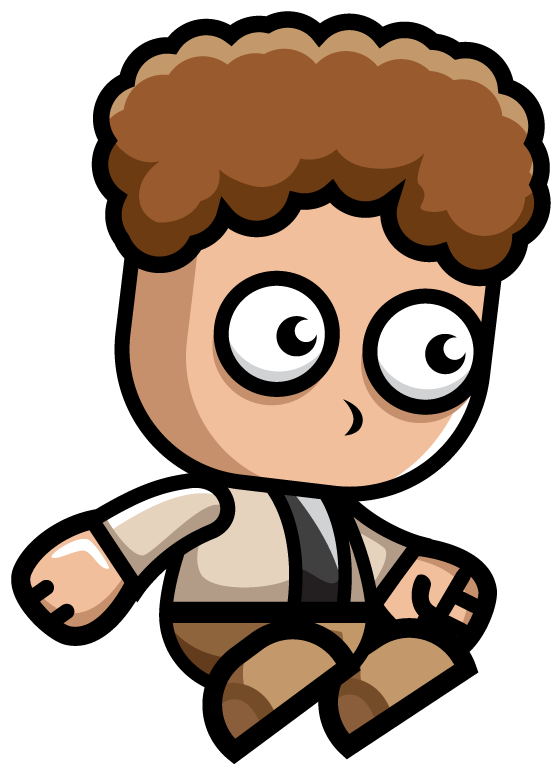
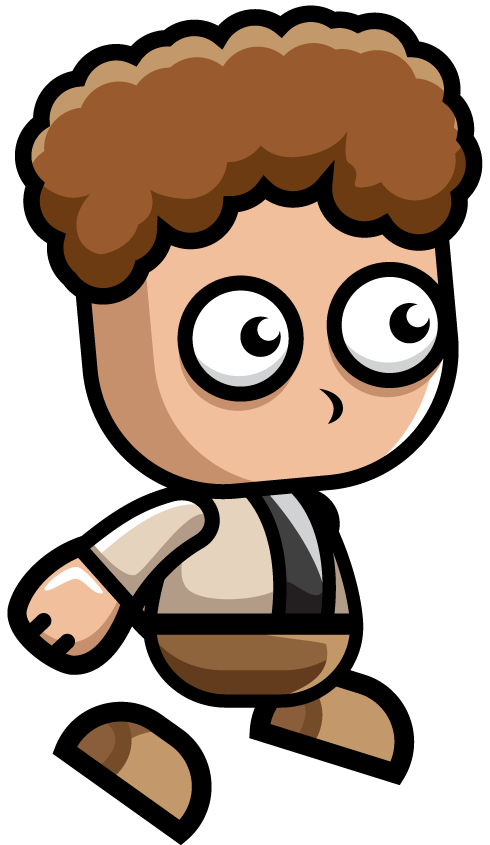
Correcting player moviment animation.

diff --git a/TecprogRunner/TecprogRunner/Player.m b/TecprogRunner/TecprogRunner/Player.m
@@ -11,6 +11,12 @@
 
 #define JUMP_IMPULSE 500
 
+typedef enum playerMoviments{
+    PlayerMovimentRun,
+    PlayerMovimentJump,
+    PlayerMovimentFall
+}playerMoviments;
+
 @interface Player()
 @end
 
@@ -100,56 +106,47 @@
     // Using textures to make an action
     SKAction *run = [SKAction animateWithTextures:runTextures timePerFrame:0.1];
     
-    return run;
+    SKAction *runForever = [SKAction repeatActionForever:run];
+    
+    return runForever;
 }
 
 -(SKAction*) loadJumpAnimation{
     DebugLog(@"Loading Jump Animation");
     
     // Creating a Mutable Array filled with Run Animations
-    NSMutableArray *jumpTextures = [super generateAnimationImages:@"playerJumping" andCount:2];
+//    NSMutableArray *jumpTextures = [super generateAnimationImages:@"playerJumping" andCount:2];
+    
+    SKTexture *jumpTexture = [self generateTextureWithImageNamed:@"playerJumping1"];
     
     // Using textures to make an action with certain time
-    SKAction *jump = [SKAction animateWithTextures:jumpTextures timePerFrame:0.3];
+    SKAction *jump = [SKAction animateWithTextures:@[jumpTexture] timePerFrame:0.3];
     
-    return jump;
+    SKAction *repeatJumpForEver = [SKAction repeatActionForever:jump];
+    
+    return repeatJumpForEver;
+}
+
+-(SKAction*) loadFallAnimation{
+    DebugLog(@"Loading Fall Animation");
+    
+    // Creating a Mutable Array filled with Run Animations
+    //    NSMutableArray *jumpTextures = [super generateAnimationImages:@"playerFalling" andCount:2];
+    
+    SKTexture *fallTexture = [self generateTextureWithImageNamed:@"playerFalling1"];
+    
+    // Using textures to make an action with certain time
+    SKAction *fall = [SKAction animateWithTextures:@[fallTexture] timePerFrame:0.3];
+    
+    SKAction *repeatfallForEver = [SKAction repeatActionForever:fall];
+    
+    return repeatfallForEver;
 }
 
 // Make player perform a jump when called
 -(void) jump{
-//    self.playerOnGround = false;
-//    
-//
-//    
-//    NSMutableArray *actionsToPlayerFinishJump = [NSMutableArray array];
-//    
-//    float timeToGetHigherPosition = 0; // Time To perform a small part of jump
-//
-//    for (int i = 0; i < 9; i++) {
-//        timeToGetHigherPosition += 0.006;
-//        // Here is used a vector with coordinates (0,16) because the wanted final vector is a (0,144) vector
-//        // When move by is used it doesn't make a sum or a scalar multiplication of vectors
-//        SKAction *jumpAction = [SKAction moveBy:CGVectorMake(0, 16) duration:timeToGetHigherPosition];
-//        [actionsToPlayerFinishJump addObject:jumpAction];
-//    }
-//    
-//    float timeToGetLowestrPosition = 0.054;
-//    for (int i = 0; i < 9; i++) {
-//        timeToGetLowestrPosition -= 0.006;
-//        SKAction *fallAction = [SKAction moveBy:CGVectorMake(0, -16) duration:timeToGetLowestrPosition];
-//        [actionsToPlayerFinishJump addObject:fallAction];
-//    }
-//
-//    SKAction *playerBackToGround = [SKAction runBlock:^{
-//        self.playerOnGround = true;
-//    }];
-//    
-//    [actionsToPlayerFinishJump addObject:playerBackToGround];
-//
-//    [self runAction:[SKAction sequence:actionsToPlayerFinishJump]];
     
     if(self.isOnGround){
-//        [self runAction:[self loadJumpAnimation]];
          self.velocity = CGVectorMake(self.velocity.dx, self.velocity.dy + JUMP_IMPULSE);
     }
     else {
@@ -172,14 +169,46 @@
 
 -(void) setIsOnGround:(BOOL)isOnGround{
     
+    // Changing animation depending player status is on ground
     if(isOnGround == true){
-        [self runAction:[self loadRunningAnimation]];
+
+        [self changeToAction:PlayerMovimentRun];
     }
     else {
-        [self runAction:[self loadJumpAnimation]];
+        [self changeToAction:PlayerMovimentJump];
     }
     
     super.isOnGround = isOnGround;
+}
+
+-(void) updateWithDeltaTime:(CFTimeInterval)deltaTime{
+    
+    [super updateWithDeltaTime:deltaTime];
+    
+    if(self.velocity.dy <= 0 && !self.isOnGround){
+        [self changeToAction:PlayerMovimentFall];
+    }
+}
+
+-(void) changeToAction:(playerMoviments) moviment{
+
+    [self removeAllActions];
+    
+    switch (moviment) {
+        case PlayerMovimentRun:
+            [self runAction:[self loadRunningAnimation]];
+            break;
+        case PlayerMovimentJump:
+            [self runAction:[self loadJumpAnimation]];
+            break;
+            
+        case PlayerMovimentFall:
+            [self runAction:[self loadFallAnimation]];
+            break;
+            
+        default:
+            break;
+    }
 }
 
 @end

diff --git a/TecprogRunner/TecprogRunner/Player.h b/TecprogRunner/TecprogRunner/Player.h
@@ -28,6 +28,16 @@
 -(SKAction*) runningAnimation;
 
 /**
+ Make the animation of player Jumping
+*/
+-(SKAction*) loadJumpAnimation;
+
+/**
+ Make the animation of player Falling
+*/
+-(SKAction*) loadFallAnimation;
+
+/**
  Throw projectile procedures
 */
 -(void) throwProjectile;
